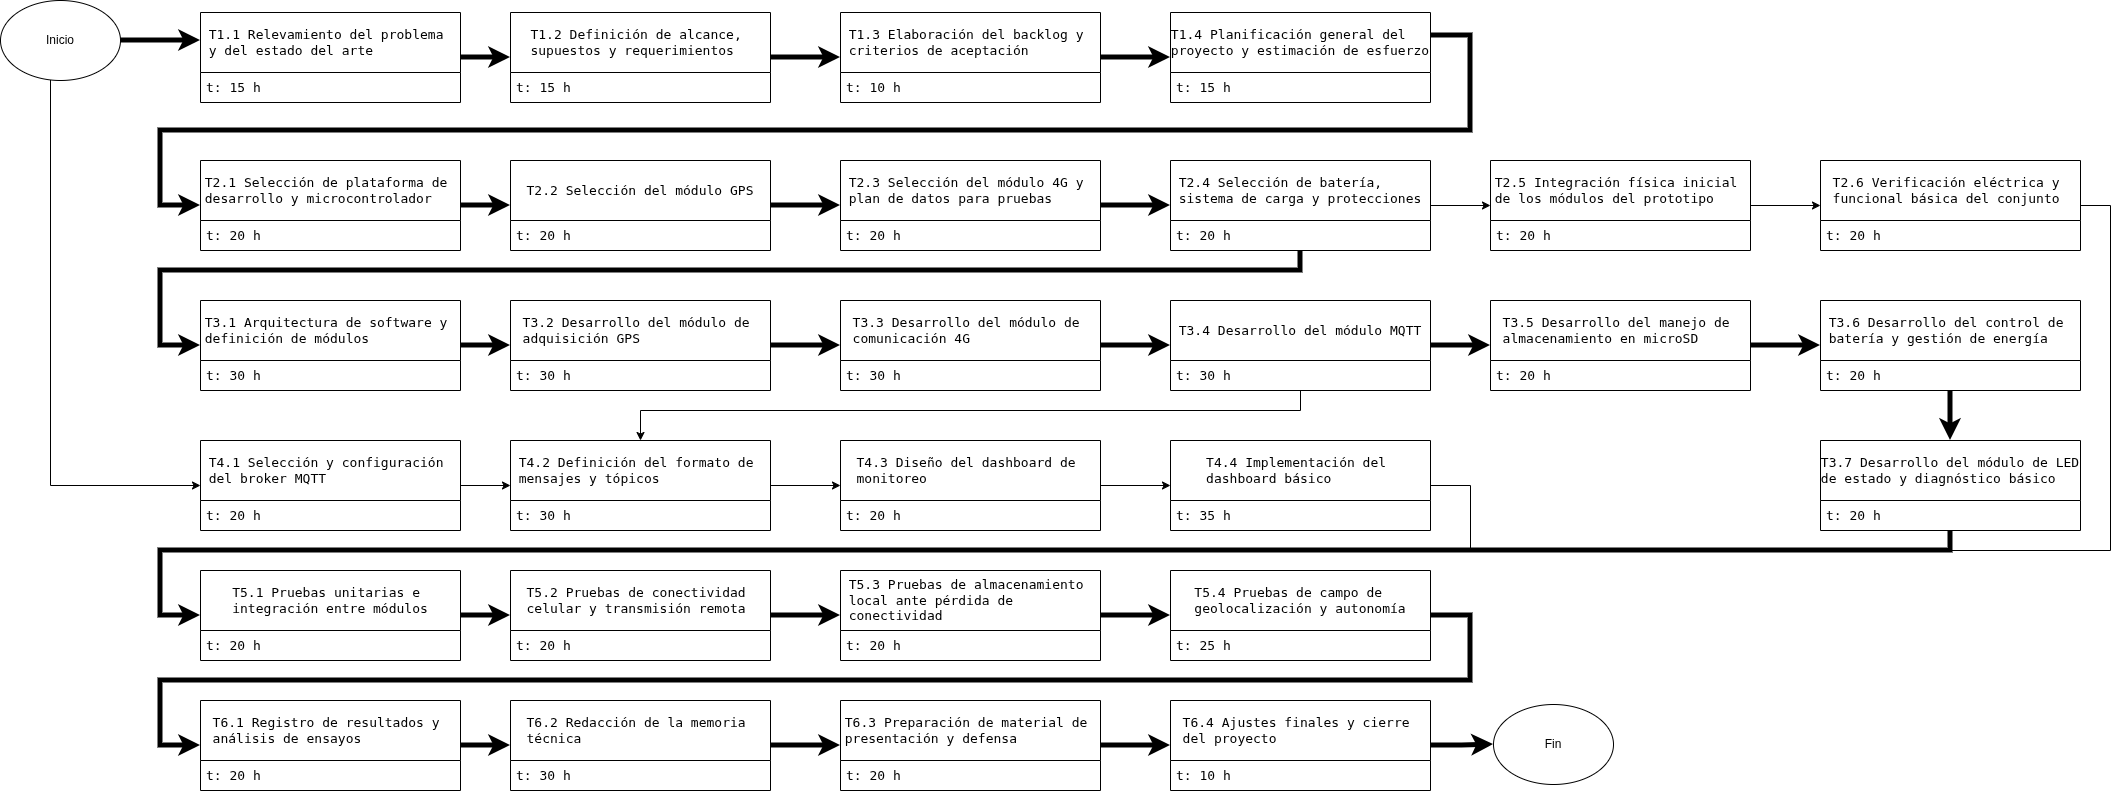
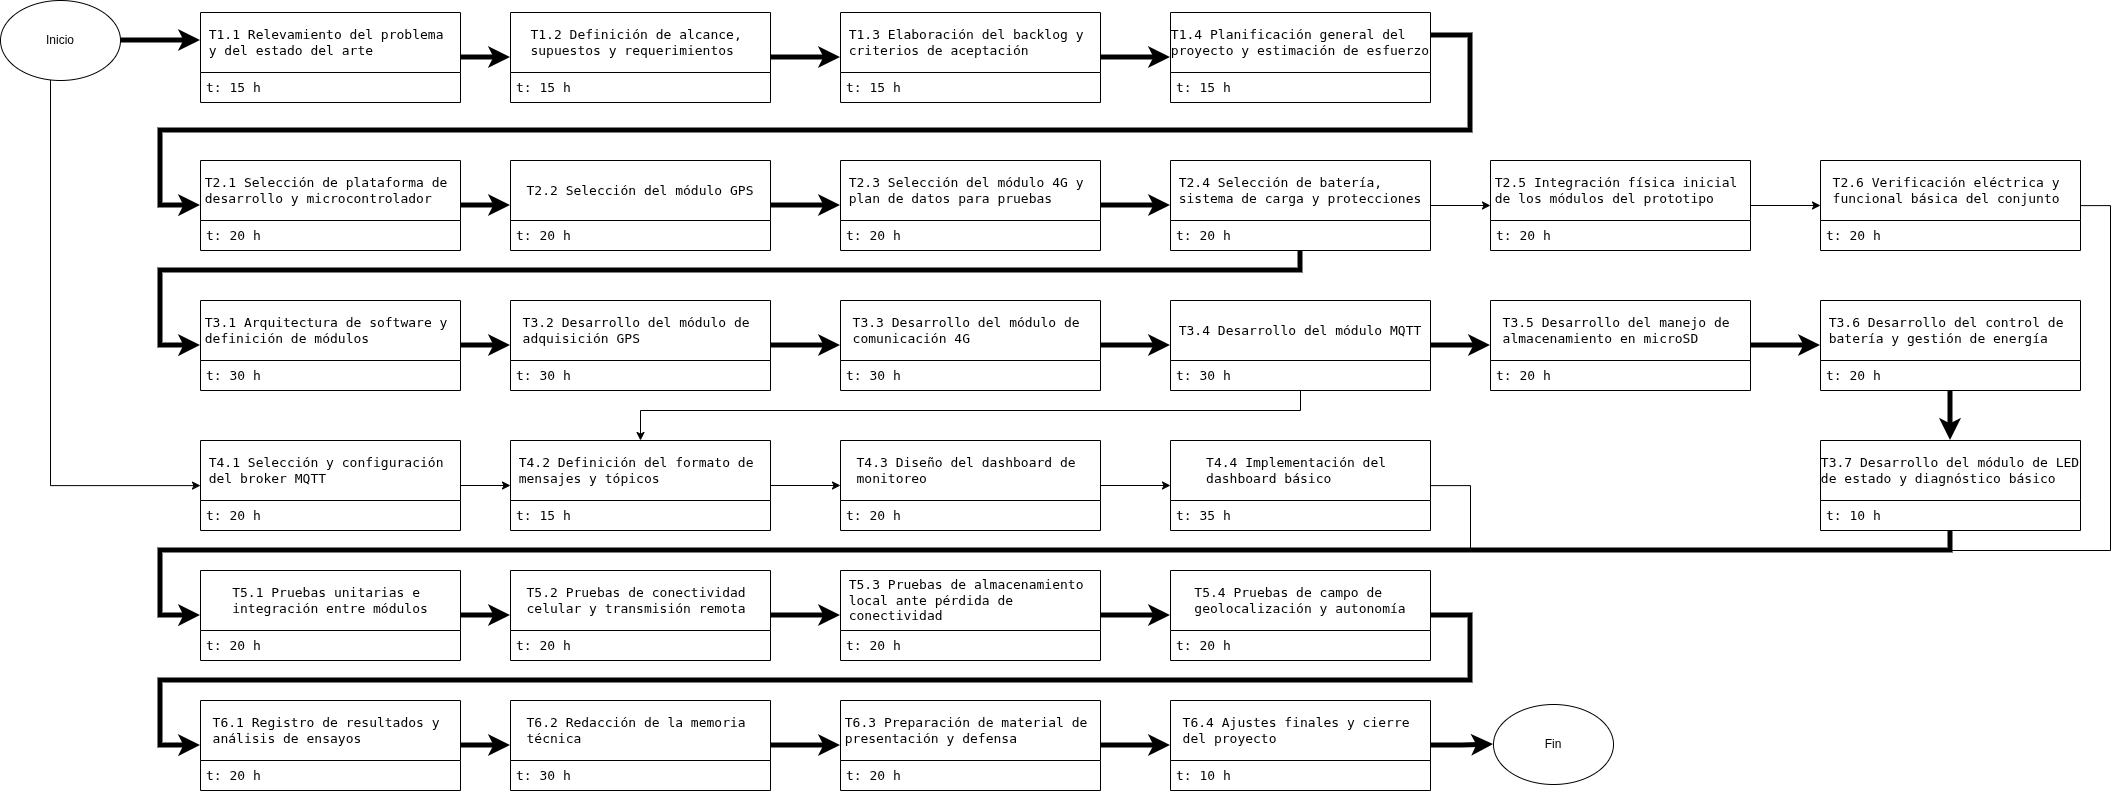
fixes times AoN

diff --git a/charter.tex b/charter.tex
@@ -365,7 +365,7 @@ El desglose preliminar del trabajo se organiza de la siguiente forma:
 	\begin{enumerate}
 	\item Relevamiento del problema y del estado del arte (15 h)
 	\item Definición de alcance, supuestos y requerimientos (15 h)
-	\item Elaboración del backlog y criterios de aceptación (10 h)
+	\item Elaboración del backlog y criterios de aceptación (15 h)
 	\item Planificación general del proyecto y estimación de esfuerzo (15 h)
 	\end{enumerate}
 \item Selección e integración de hardware (120 h)
